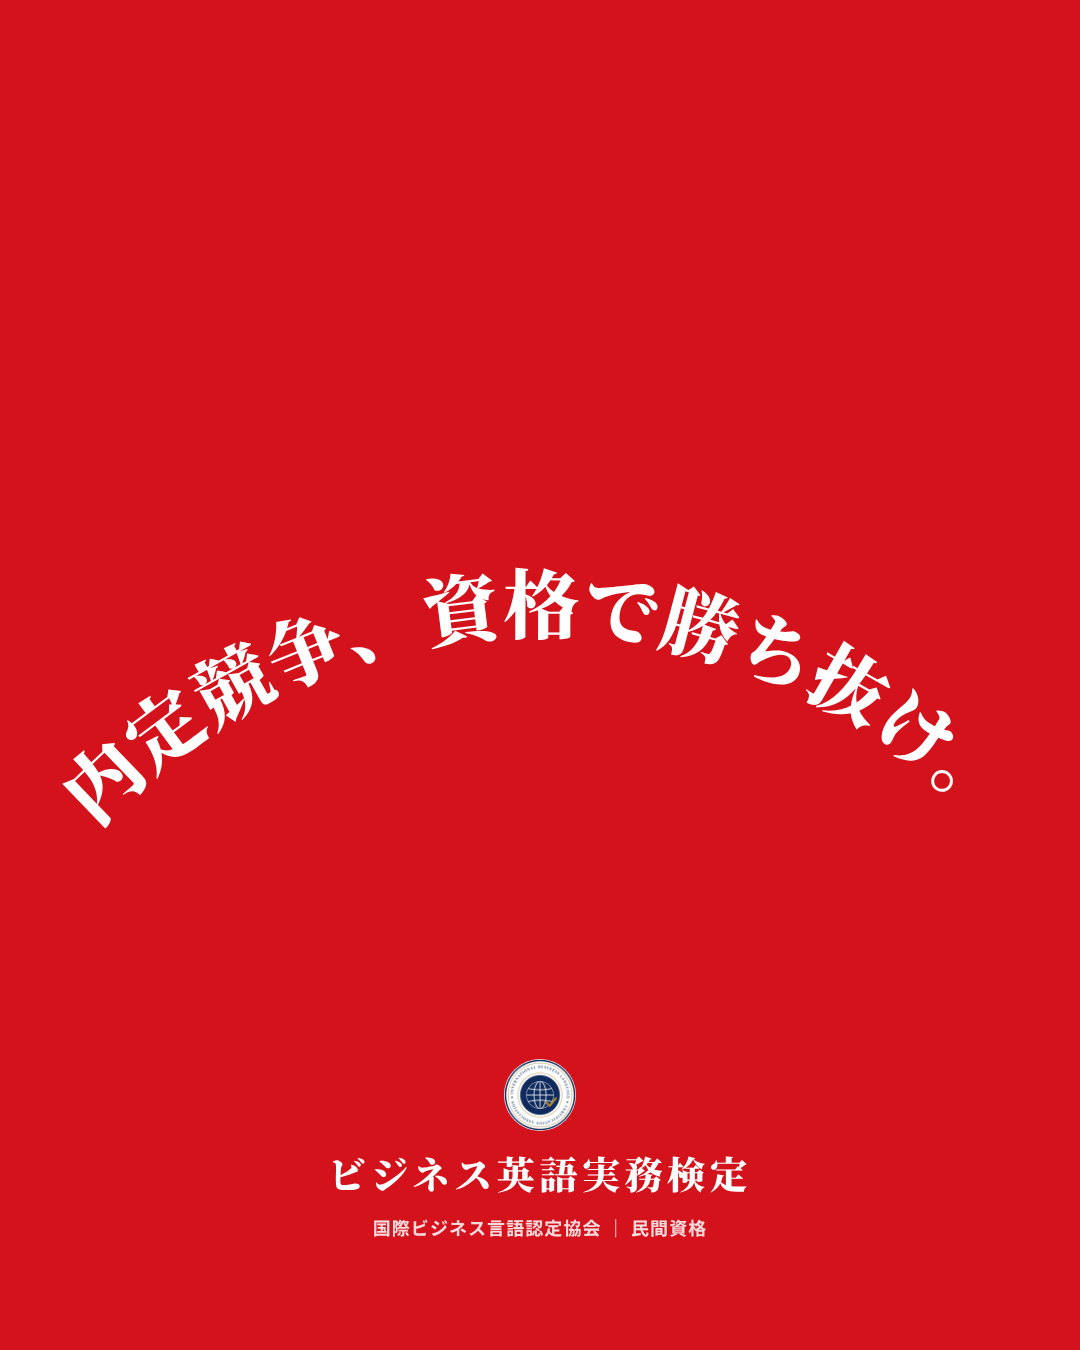
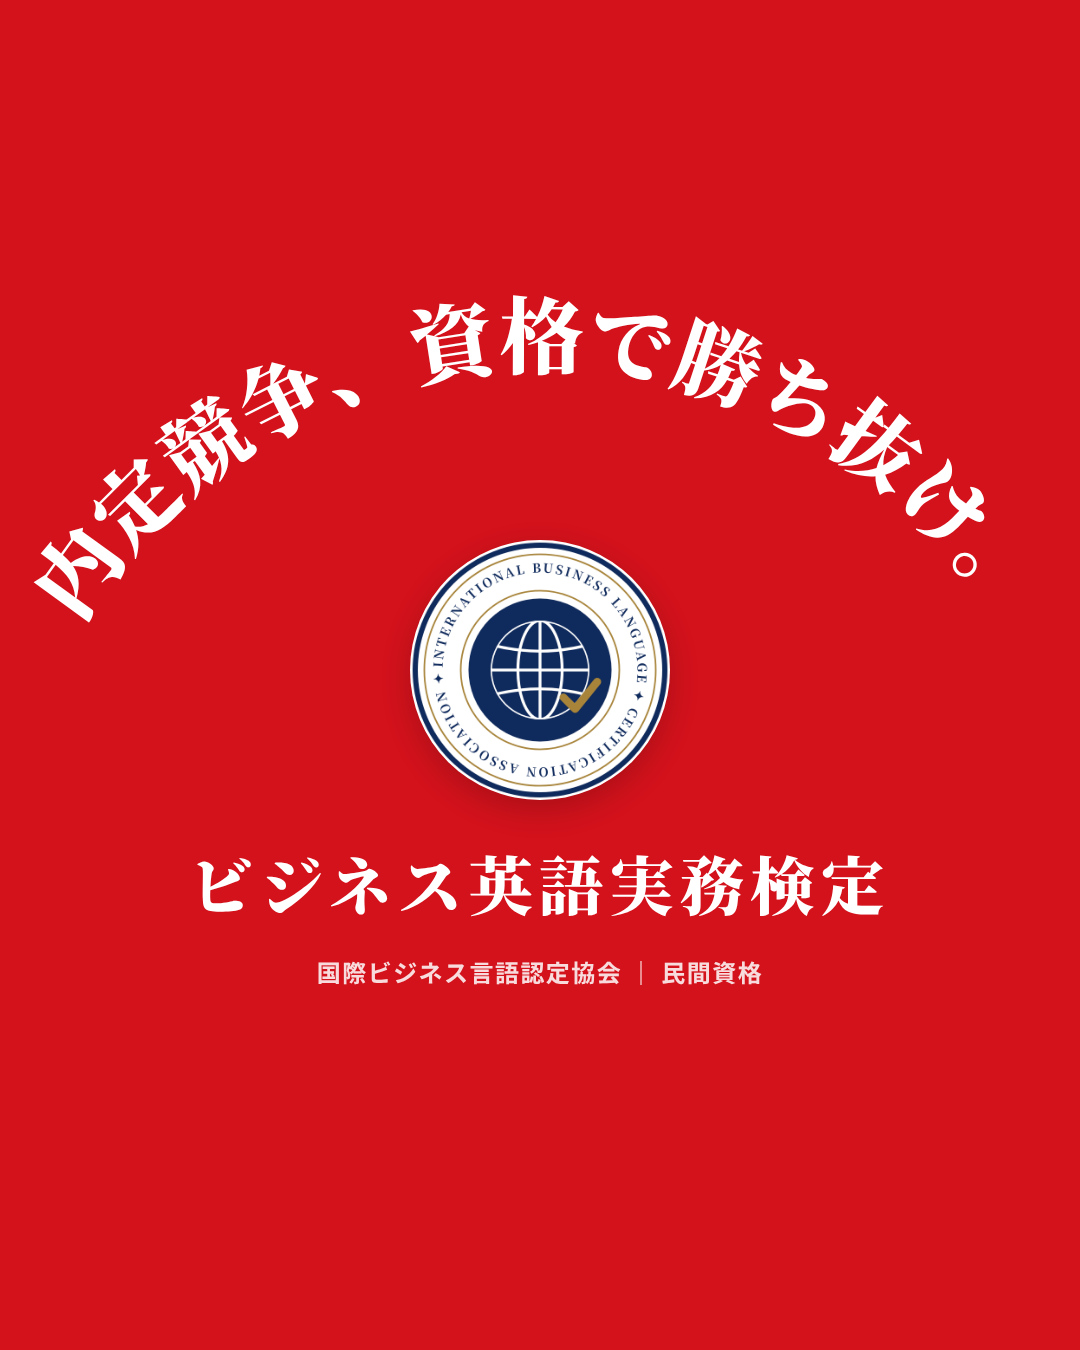
アーチ版：アーチを上に、ロゴを大きく
Claude-Session: https://claude.ai/code/session_014p5jKzC7vmuyPAkeTgUdi2

diff --git a/content/posters/redwhite/red_arch.html b/content/posters/redwhite/red_arch.html
@@ -3,14 +3,14 @@
 html,body{width:1080px;height:1350px;overflow:hidden}
 body{background:#d3121c;color:#fff;font-family:"Noto Serif CJK JP",serif;-webkit-font-smoothing:antialiased;position:relative}
 svg{position:absolute;left:0;top:0}
-.foot{position:absolute;left:0;right:0;bottom:110px;display:flex;flex-direction:column;align-items:center;gap:14px}
-.foot img{width:72px;height:72px;border-radius:50%;background:#fff}
-.foot .n{font-weight:900;font-size:38px;letter-spacing:.12em}
-.foot .s{font-family:"Noto Sans CJK JP";font-weight:700;font-size:18px;opacity:.85;letter-spacing:.06em}
+.foot{position:absolute;left:0;right:0;top:540px;display:flex;flex-direction:column;align-items:center;gap:26px}
+.foot img{width:260px;height:260px;box-shadow:0 10px 30px rgba(0,0,0,.18);border-radius:50%;background:#fff}
+.foot .n{font-weight:900;font-size:64px;letter-spacing:.1em;margin-top:10px}
+.foot .s{font-family:"Noto Sans CJK JP";font-weight:700;font-size:24px;opacity:.85;letter-spacing:.06em}
 </style></head><body>
 <svg width="1080" height="1350" viewBox="0 0 1080 1350">
-<defs><path id="arc" d="M 70 860 A 600 600 0 0 1 1010 860"/></defs>
-<text font-family="Noto Serif CJK JP" font-weight="900" font-size="76" fill="#fff" letter-spacing="1" text-anchor="middle">
+<defs><path id="arc" d="M 60 660 A 540 540 0 0 1 1020 660"/></defs>
+<text font-family="Noto Serif CJK JP" font-weight="900" font-size="84" fill="#fff" letter-spacing="1" text-anchor="middle">
 <textPath href="#arc" startOffset="50%">内定競争、資格で勝ち抜け。</textPath></text>
 </svg>
 <div class="foot"><img src="logo.png"><div class="n">ビジネス英語実務検定</div><div class="s">国際ビジネス言語認定協会 ｜ 民間資格</div></div>

diff --git a/log/posted.md b/log/posted.md
@@ -142,3 +142,4 @@
 - 2026-11-01 作成｜Instagram 広告用ポスター（4:5）｜assets/images/ad_muryou_shikaku/無料で資格_Instagram広告_1080x1350.jpg（タイトル「無料で資格!?」、白地・黒と赤、写真モデル・赤ネクタイ・白シャツ。初級のみ・12/25申込まで・合格した場合を明記）｜出稿はオーナー
 - 2026-11-02 作成｜ポスター（4:5）｜assets/images/poster_kachinuke/内定競争_資格で勝ち抜け_赤_1080x1350.jpg（背景すべて赤 #d3121c・文字は白、「内定競争、資格で勝ち抜け。」＋検定名・協会名・民間資格だけ。オーナー指示）｜未投稿
 - 2026-11-02 作成｜ポスター アーチ版｜assets/images/poster_kachinuke/内定競争_資格で勝ち抜け_アーチ_赤_1080x1350.jpg（一文につなげて弧を描く配置、赤地に白）
+- 2026-11-02 修正｜アーチ版：アーチを上へ・文字を大きく、協会ロゴを大きくしてアーチの下の中央に
